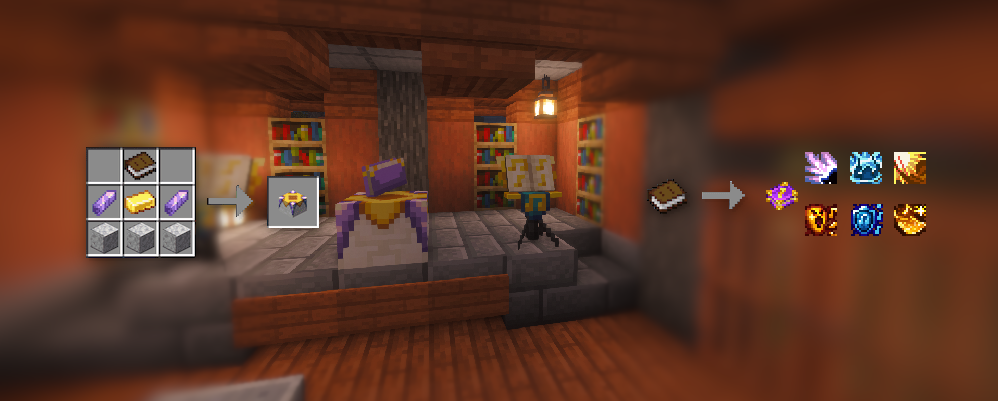
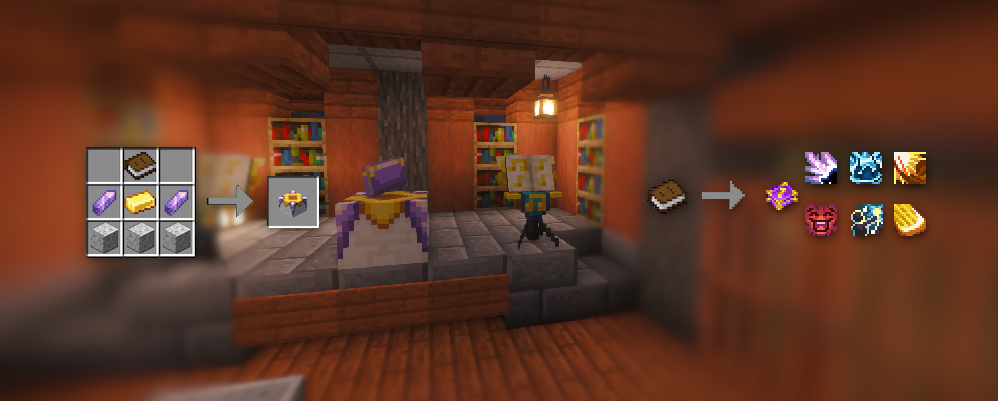
Minor Improvements

Changed region(s): [[0.775, 0.5087, 0.93, 0.5985], [0.899, 0.4489, 0.93, 0.4788], [0.806, 0.4489, 0.837, 0.4788]]

diff --git a/common/src/main/java/com/bards/content/BardsSounds.java b/common/src/main/java/com/bards/content/BardsSounds.java
@@ -69,7 +69,6 @@ public class BardsSounds {
     public static float travelDistanceSpellSounds = 32;
     public static final Entry lyre_channel = add(new Entry("lyre_channel").variants(3));
     public static final Entry lyre_hit = add(new Entry("lyre_hit").variants(3));
-    public static final Entry lyre_release = add(new Entry("lyre_release").variants(1));
     public static final Entry lute_hit = add(new Entry("lute_hit").variants(2));
     public static final Entry bard_impact = add(new Entry("bard_impact").variants(3));
     public static final Entry bard_buff = add(new Entry("bard_buff").variants(3));
@@ -79,9 +78,7 @@ public class BardsSounds {
     public static final Entry armys_paeon_buff = add(new Entry("armys_paeon_buff"));
     public static final Entry armys_paeon_impact = add(new Entry("armys_paeon_impact").variants(3));
     public static final Entry armys_paeon_release = add(new Entry("armys_paeon_release").variants(3));
-    public static final Entry harp_crossbow_pull = add(new Entry("harp_crossbow_pull"));
     public static final Entry harp_crossbow_shoot = add(new Entry("harp_crossbow_shoot").variants(4));
-    public static final Entry harp_crossbow_hit = add(new Entry("harp_crossbow_hit"));
     public static final Entry vicious_mockery = add(new Entry("vicious_mockery")).variants(3).travelDistance(travelDistanceSpellSounds);
     public static final Entry crescendo_launch = add(new Entry("crescendo_launch"));
     //SONGS
@@ -94,7 +91,7 @@ public class BardsSounds {
     public static final Entry song_of_celerity = add(new Entry("song_of_celerity")).variants(3).travelDistance(travelDistanceSpellSounds);
     public static final Entry canticle_of_the_tides = add(new Entry("canticle_of_the_tides")).variants(3).travelDistance(travelDistanceSpellSounds);
     public static final Entry hymn_of_the_golden_light = add(new Entry("hymn_of_the_golden_light")).variants(4).travelDistance(travelDistanceSpellSounds);
-    public static final Entry song_of_the_turning_sky = add(new Entry("song_of_the_turning_sky")).variants(5).travelDistance(travelDistanceSpellSounds);
+    public static final Entry song_of_the_turning_sky = add(new Entry("song_of_the_turning_sky")).variants(4).travelDistance(travelDistanceSpellSounds);
     //LUTHIER SONGS
     public static final Entry troubadours_minuet_full = add(new Entry("troubadours_minuet_full"));
     public static final Entry wanderers_minuet_full = add(new Entry("wanderers_minuet_full"));

diff --git a/CHANGELOG.md b/CHANGELOG.md
@@ -1,5 +1,9 @@
+# 1.0.5 - 1.21.1
+- Clean up some missing / unused sound effects
+- Song of Celerity, Natures Minne, Vicious Mockery, Wardens Paean & Crescendo received new spell textures
+
 # 1.0.4 - 1.21.1
-- Armory & Arsenal Compat Equipment is no added to a separate Item Group
+- Armory & Arsenal Compat Equipment is now added to a separate Item Group
 - added Music Disc's for all Bard Songs that can be found in a Pub in Villages
 - Add Merchant Marker Mod Compat for the Luthier Villager
 
